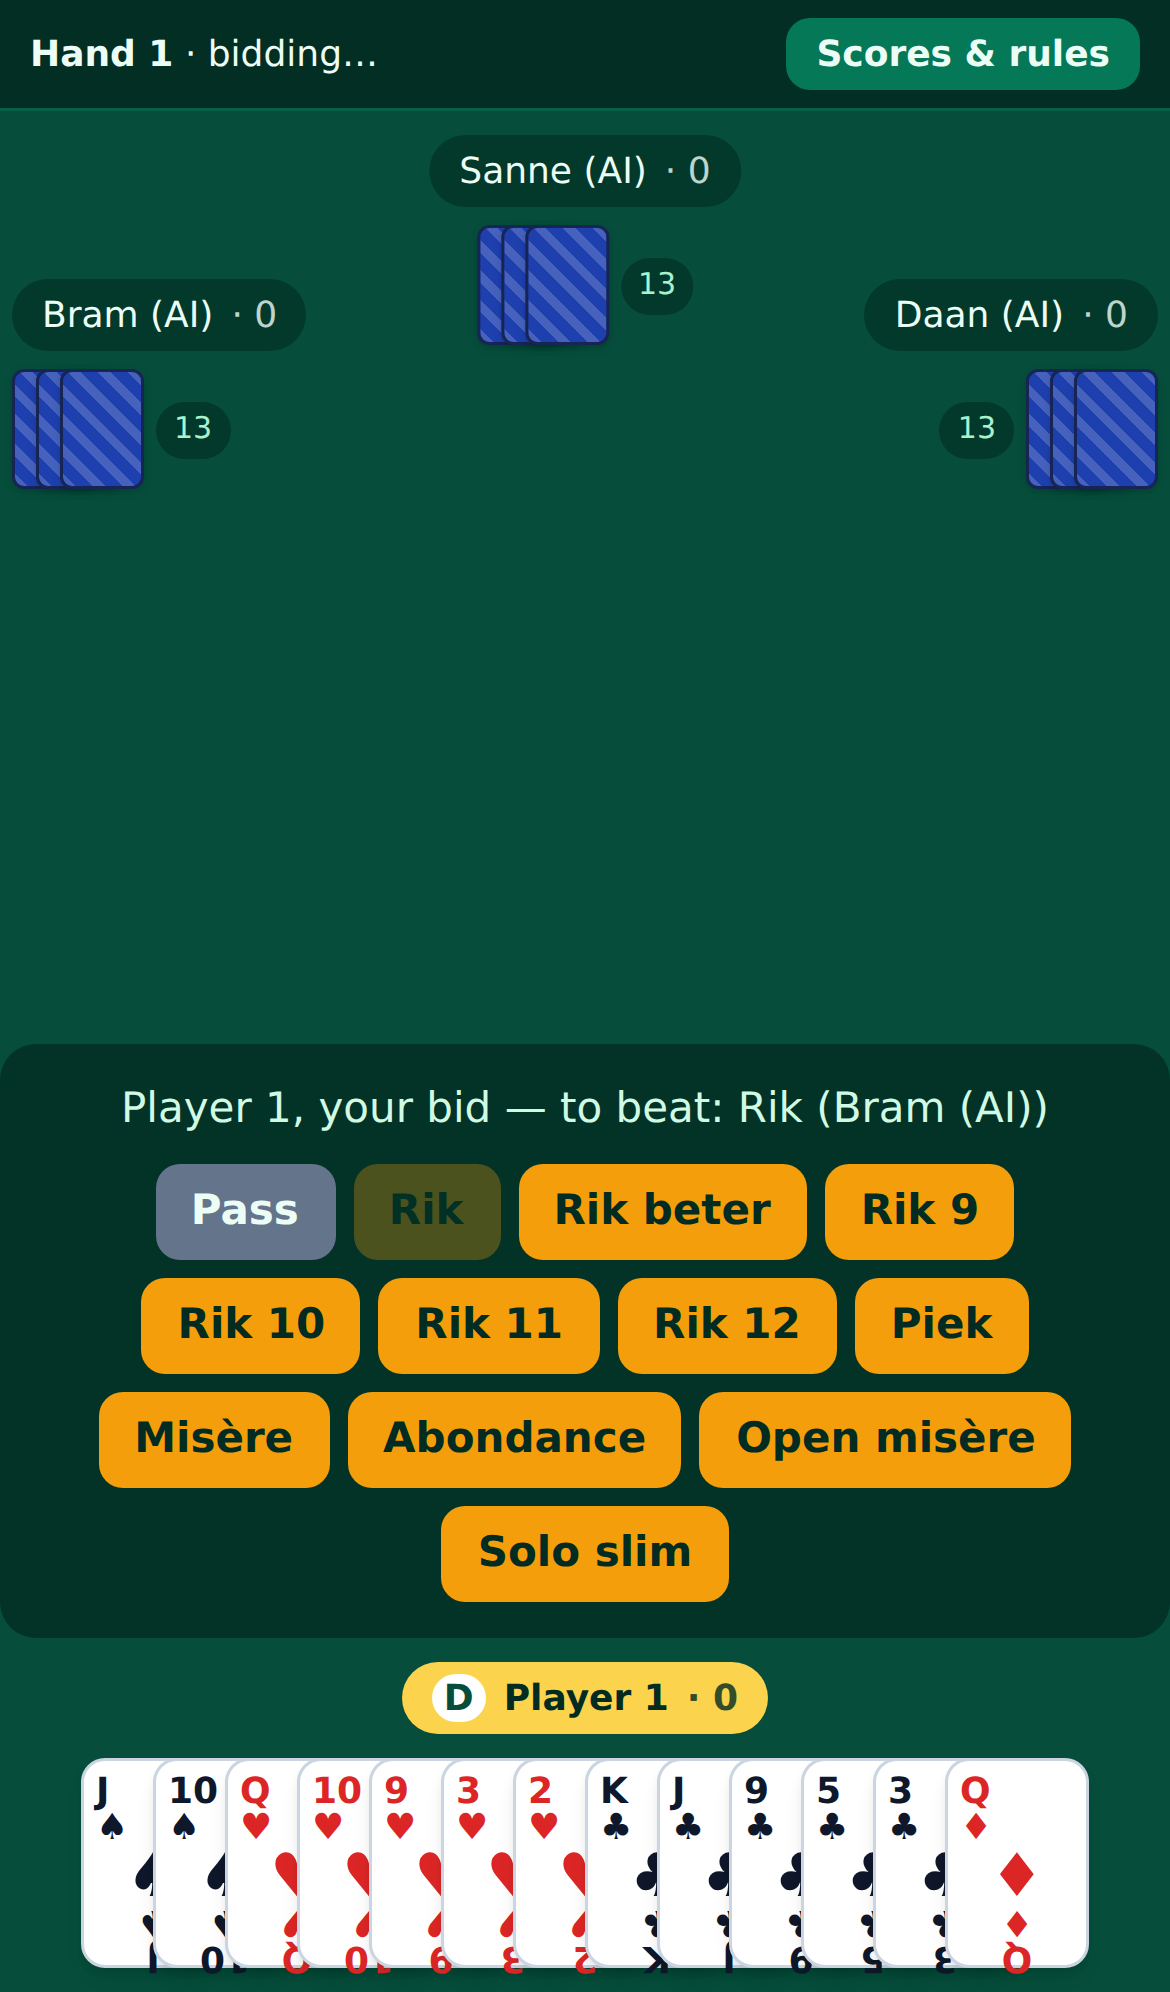
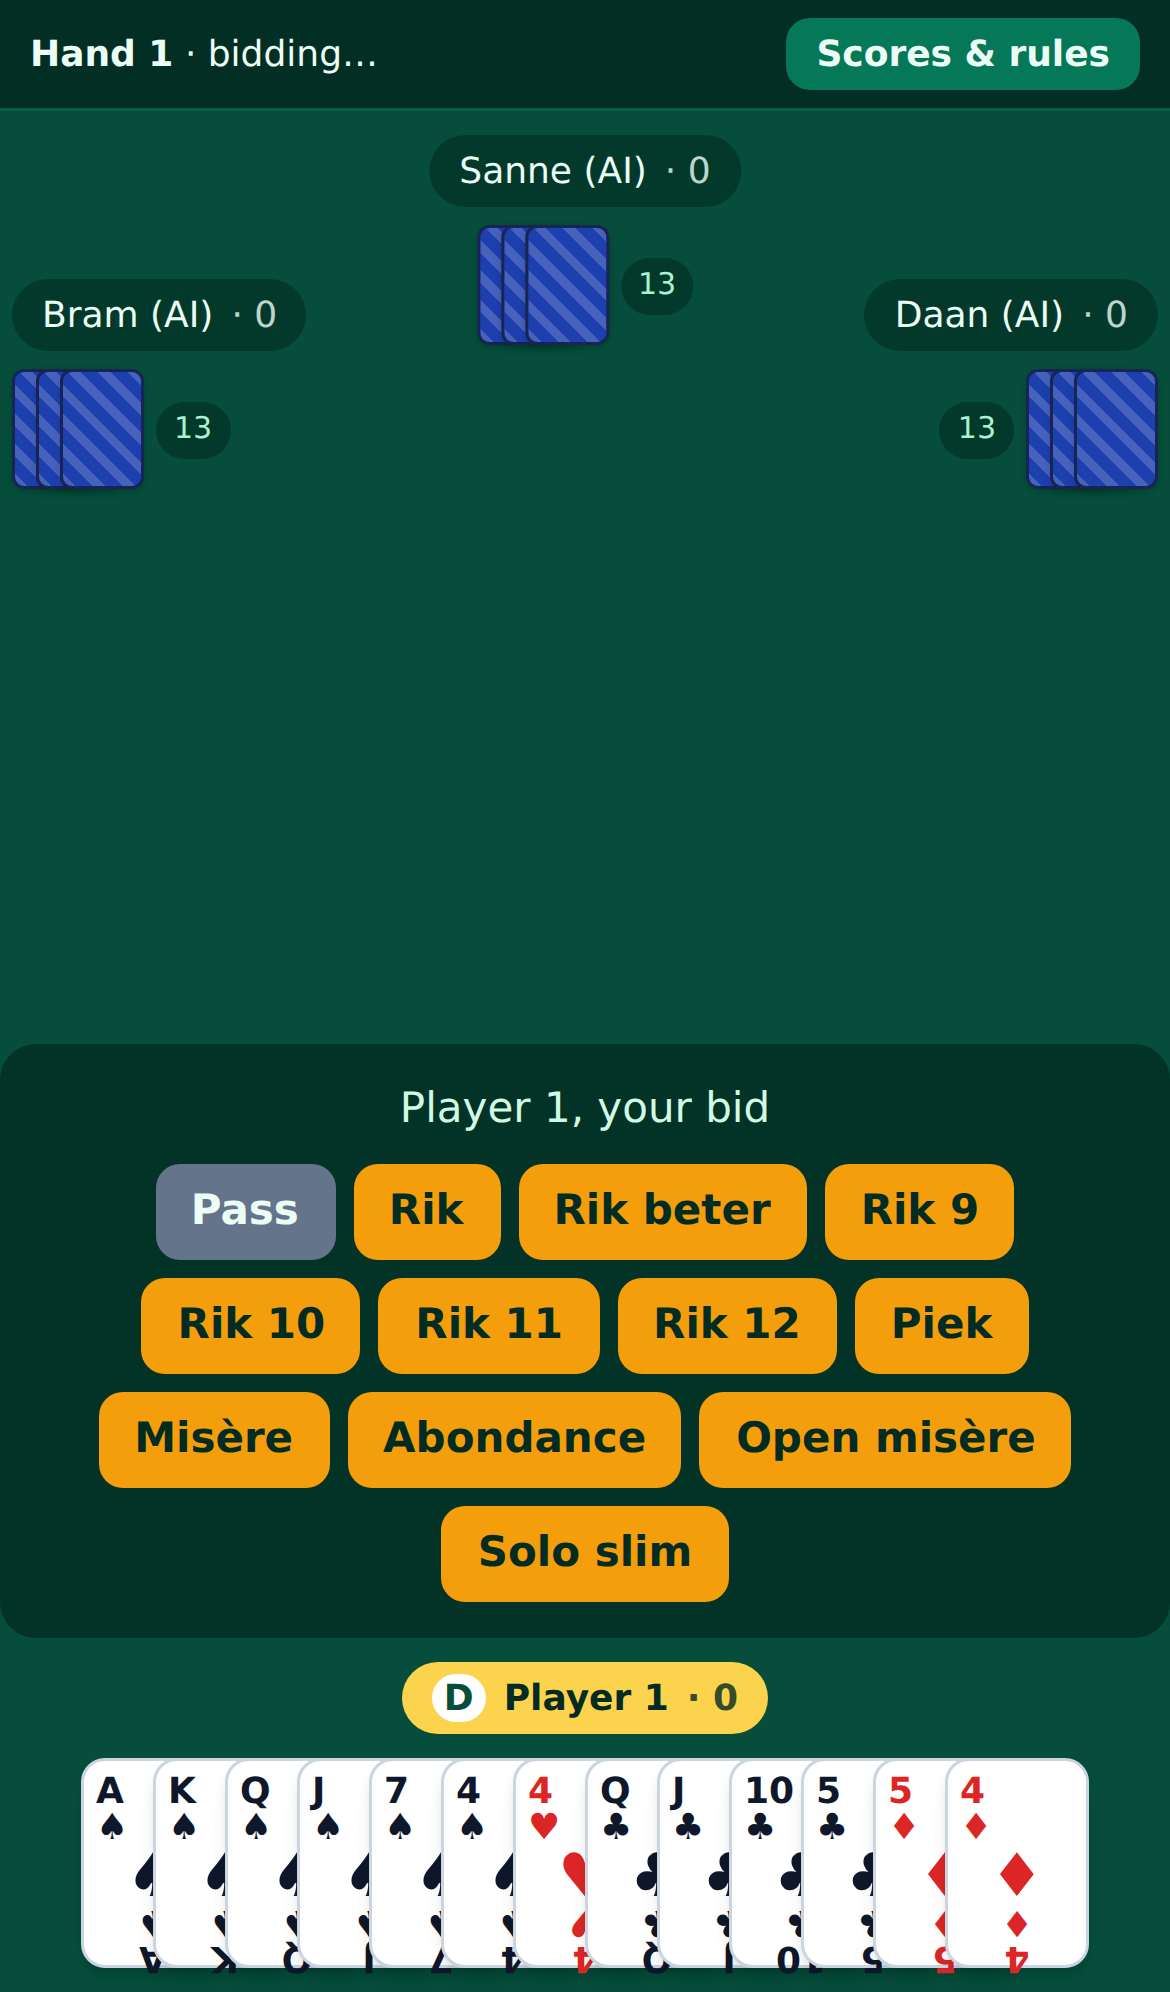
Shuffle like a real table between hands
Replace the per-hand perfect shuffle with a realistic cycle: tricks are
gathered in the order won (thrown-in hands appended on early ends, full
sorted hands on an all-pass redeal), then the pile gets two sloppy
riffles - cards dropping in packets of 1-3 - and a single cut before
the 4-4-5 deal. Suit clumps survive, so hands run richer: measured
average longest suit 5.2 vs 4.9 uniform, 7+ card suits 10% vs 4%.
Tunable via RULES.shuffle (mode/riffles/maxChunk); 'uniform' restores
the pure shuffle. Card conservation asserted across 25 gathered-deck
hands.

Claude-Session: https://claude.ai/code/session_01Qz1h6BRuaHwxdz685EQKKB

diff --git a/Rikken.jsx b/Rikken.jsx
@@ -11,6 +11,13 @@ const RULES = {
   dealPattern: [4, 4, 5], // packets, dealt clockwise starting left of dealer
   mustTrump: false,       // trumping when void is NOT compulsory
   rikBase: 7,             // rik/troela pay 1 point per trick above this
+  // Between hands the cards are gathered trick by trick and shuffled the way
+  // real players do it: a couple of sloppy riffles (cards drop in little
+  // packets, not one by one) and a cut — NOT a perfect shuffle. Tricks keep
+  // suits clumped, so hands run richer: measured vs uniform, average longest
+  // suit 5.2 vs 4.9 and 7+ card suits 10% vs 4%. mode "uniform" restores the
+  // pure Fisher-Yates shuffle; more riffles / maxChunk 1 = cleaner shuffling.
+  shuffle: { mode: "realistic", riffles: 2, maxChunk: 3 },
   troela: {
     target: 8,            // troela pair (or solo four-ace holder) needs 8 tricks
     trumpFromFirstLead: true, // trump is the suit of the very first card led
@@ -58,6 +65,33 @@ function shuffle(deck, rng = Math.random) {
     [d[i], d[j]] = [d[j], d[i]];
   }
   return d;
+}
+
+// One sloppy human riffle: split near the middle, then alternate drops from
+// each half — in little packets of 1..maxChunk cards, the way thumbs actually
+// release them. Chunky drops are what keep same-suit trick clumps alive.
+function riffle(deck, rng) {
+  const cut = 20 + Math.floor(rng() * 13);
+  const a = deck.slice(0, cut), b = deck.slice(cut);
+  const out = [];
+  let i = 0, j = 0;
+  while (i < a.length || j < b.length) {
+    const left = a.length - i, right = b.length - j;
+    const fromA = rng() * (left + right) < left;
+    const chunk = 1 + Math.floor(rng() * RULES.shuffle.maxChunk);
+    if (fromA) for (let k = 0; k < chunk && i < a.length; k++) out.push(a[i++]);
+    else for (let k = 0; k < chunk && j < b.length; k++) out.push(b[j++]);
+  }
+  return out;
+}
+
+// A casual human shuffle: RULES.shuffle.riffles riffles and one cut. With a
+// trick-clumped deck this leaves plenty of suit runs for the 4-4-5 deal.
+function humanShuffle(deck, rng = Math.random) {
+  let d = deck.slice();
+  for (let k = 0; k < RULES.shuffle.riffles; k++) d = riffle(d, rng);
+  const cut = 5 + Math.floor(rng() * (d.length - 10));
+  return [...d.slice(cut), ...d.slice(0, cut)];
 }
 
 // Deal in packets (RULES.dealPattern), clockwise, starting left of dealer.
@@ -397,11 +431,17 @@ function newGame({ mode, humanNames, aiSkill }) {
 }
 
 function freshHand(g) {
-  const hands = deal(shuffle(makeDeck()), g.dealer).map(sortHand);
+  // Realistic mode reshuffles LAST hand's gathered deck (tricks + thrown-in
+  // hands, still suit-clumped); the first hand riffles a fresh pack.
+  const realistic = RULES.shuffle.mode === "realistic";
+  const source = realistic && g.nextDeck && g.nextDeck.length === 52 ? g.nextDeck : makeDeck();
+  const deck = realistic ? humanShuffle(source) : shuffle(makeDeck());
+  const hands = deal(deck, g.dealer).map(sortHand);
   const troela = detectTroela(hands);
   const base = {
     ...g, hands, trick: [], tricksBySeat: [0, 0, 0, 0], playedIds: new Set(),
     trickNo: 0, lastResult: null, openHand: null, high: null,
+    wonTricks: [], nextDeck: null,
     passed: [false, false, false, false], bidLog: [],
     leader: (g.dealer + 1) % 4, turn: (g.dealer + 1) % 4,
     // Hot seat: hide the fan again until the next actor confirms the handoff.
@@ -490,7 +530,8 @@ function sweepTrick(g) {
     ? g.contract.declarer : g.openHand;
   const side = g.contract.partner == null ? [g.contract.declarer] : [g.contract.declarer, g.contract.partner];
   const declTricks = side.reduce((n, s) => n + tricksBySeat[s], 0);
-  const g2 = { ...g, tricksBySeat, trickNo, openHand, trick: [], leader: winner, turn: winner, phase: "play" };
+  const g2 = { ...g, tricksBySeat, trickNo, openHand, trick: [], leader: winner, turn: winner, phase: "play",
+    wonTricks: [...g.wonTricks, g.trick.map((p) => p.card)] };
   const early = checkEarlyEnd(g.contract.key, declTricks, trickNo);
   if (early || trickNo === 13) return finishHand(g2, early);
   return g2;
@@ -502,11 +543,17 @@ function finishHand(g, early) {
   return { ...g, phase: "handEnd",
     scores: g.scores.map((s, i) => s + res.deltas[i]),
     contract: { ...c, revealed: true },
+    // Gather the deck as it sits on the table: completed tricks in the order
+    // they were won, then any uncounted hands tossed in (early hand end).
+    nextDeck: [...g.wonTricks.flat(), ...g.hands.flat()],
     lastResult: { ...res, early: !!early } };
 }
 
 function nextHand(g) {
-  return freshHand({ ...g, dealer: (g.dealer + 1) % 4, handNo: g.handNo + 1 });
+  // After an all-pass redeal the four (suit-sorted!) hands go straight back
+  // onto the pile — the classic reason a redeal produces wilder hands.
+  const nextDeck = g.phase === "redeal" ? g.hands.flat() : g.nextDeck;
+  return freshHand({ ...g, nextDeck, dealer: (g.dealer + 1) % 4, handNo: g.handNo + 1 });
 }
 
 // Whose input the game is waiting for (null while a trick pause runs etc.).
@@ -911,6 +958,8 @@ function RulesModal({ onClose }) {
       <div className="text-sm leading-relaxed">
         <H>Setup</H>
         52 cards, ace high. Four seats, play clockwise. 13 cards each, dealt 4-4-5. Dealer rotates.
+        Between hands the tricks are gathered and given a few casual riffles and a cut — like a
+        real table, not a perfect shuffle — so long suits and voids come up more often.
         <H>Bidding</H>
         Starts left of the dealer; each bid must outrank the last; passing puts you out of the
         auction. Three passes after a bid ends it; four passes means a redeal by the next dealer.